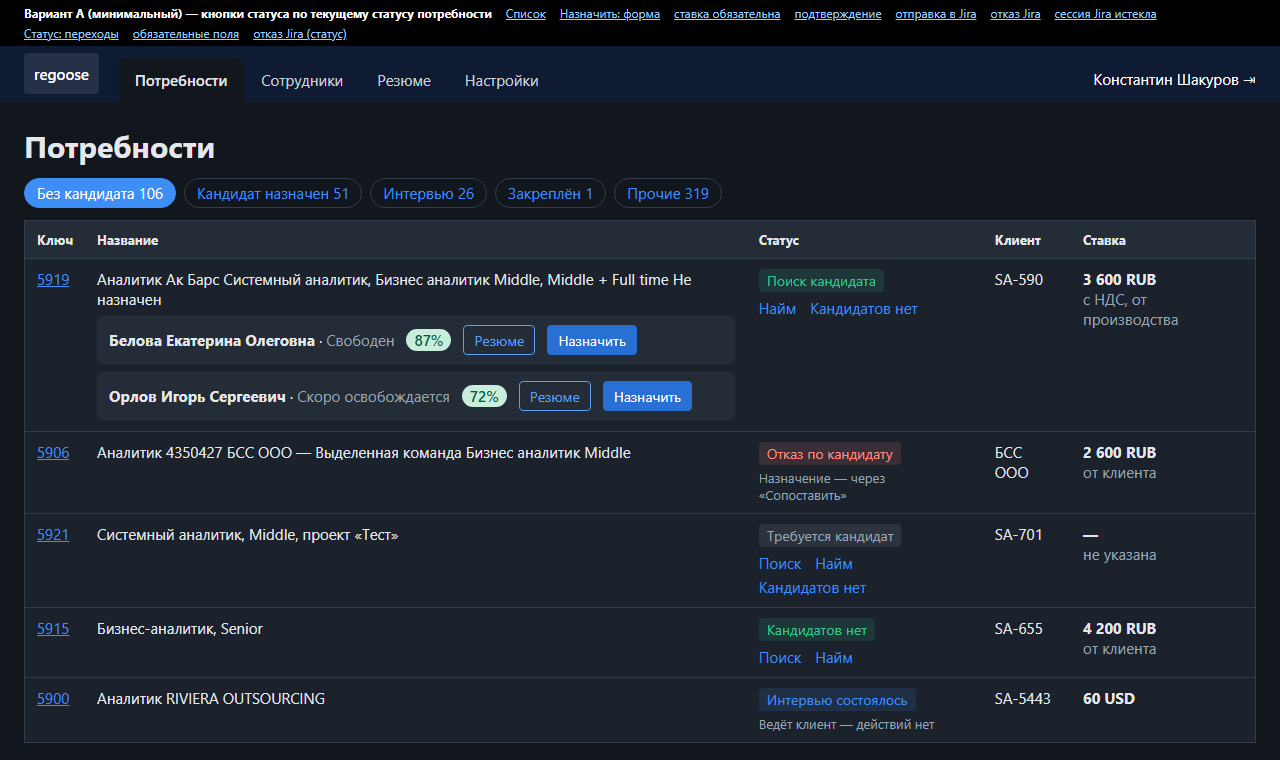
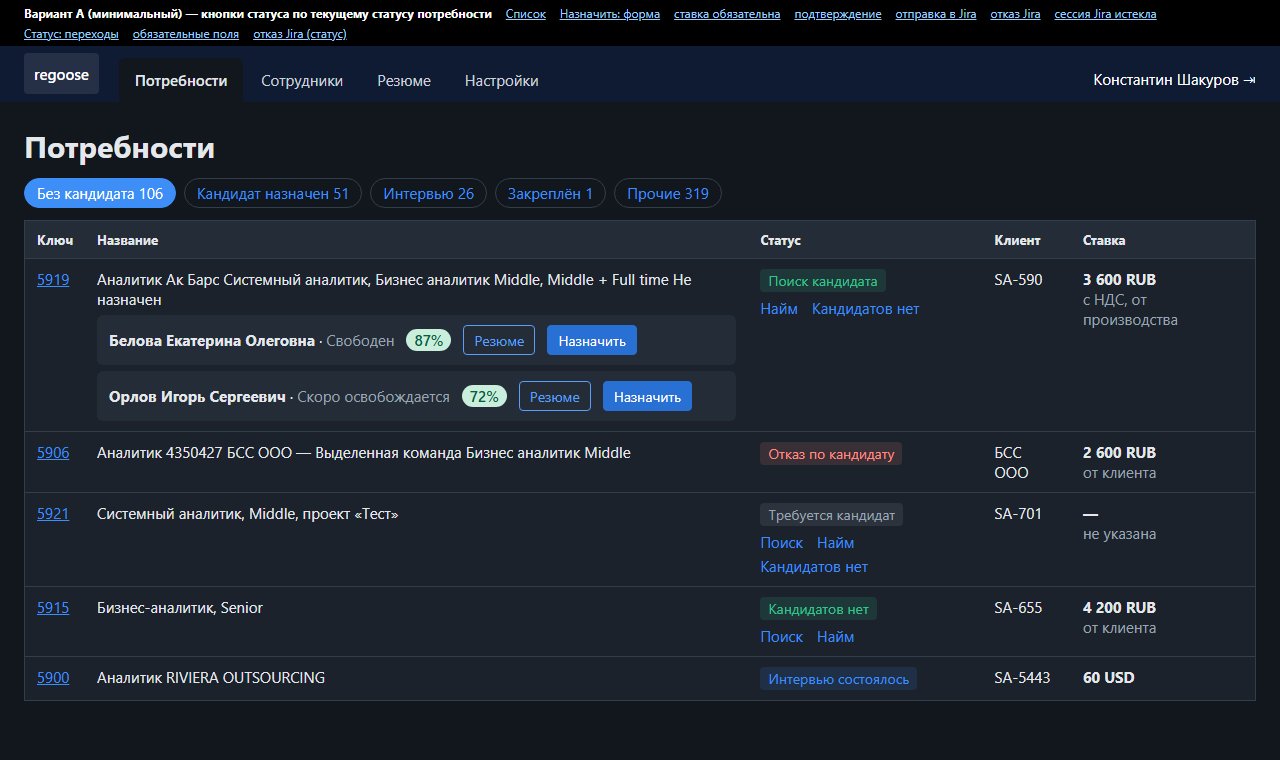
design: KON-79 no explanatory text under statuses without actions

diff --git a/design/KON-79/variant_a.html b/design/KON-79/variant_a.html
@@ -86,8 +86,8 @@ body[data-s="status_refused"] [data-v="status_refused"]{display:flex}
 <div class="cand"><span><b>Белова Екатерина Олеговна</b> · <span class="muted">Свободен</span></span><span class="pct">87%</span><button class="btn small sec">Резюме</button><button class="btn small primary">Назначить</button></div>
 <div class="cand"><span><b>Орлов Игорь Сергеевич</b> · <span class="muted">Скоро освобождается</span></span><span class="pct">72%</span><button class="btn small sec">Резюме</button><button class="btn small primary">Назначить</button></div></td>
 <td><span class="st">Поиск кандидата</span><div class="acts"><button class="lnk">Найм</button><button class="lnk">Кандидатов нет</button></div></td><td>SA-590</td><td><b>3 600 RUB</b><div class="muted">с НДС, от производства</div></td></tr>
-<tr><td><a href="#">5906</a></td><td>Аналитик 4350427 БСС ООО — Выделенная команда Бизнес аналитик Middle</td><td><span class="st" style="background:#ff8a8022;color:var(--err)">Отказ по кандидату</span><div class="hint" style="margin-top:4px">Назначение — через «Сопоставить»</div></td><td>БСС ООО</td><td><b>2 600 RUB</b><div class="muted">от клиента</div></td></tr>
-<tr><td><a href="#">5921</a></td><td>Системный аналитик, Middle, проект «Тест»</td><td><span class="st" style="background:#9aa5b122;color:var(--muted)">Требуется кандидат</span><div class="acts"><button class="lnk">Поиск</button><button class="lnk">Найм</button><button class="lnk">Кандидатов нет</button></div></td><td>SA-701</td><td><b>—</b><div class="muted">не указана</div></td></tr><tr><td><a href="#">5915</a></td><td>Бизнес-аналитик, Senior</td><td><span class="st">Кандидатов нет</span><div class="acts"><button class="lnk">Поиск</button><button class="lnk">Найм</button></div></td><td>SA-655</td><td><b>4 200 RUB</b><div class="muted">от клиента</div></td></tr><tr><td><a href="#">5900</a></td><td>Аналитик RIVIERA OUTSOURCING</td><td><span class="st" style="background:#3e8ef722;color:var(--accent)">Интервью состоялось</span><div class="hint" style="margin-top:4px">Ведёт клиент — действий нет</div></td><td>SA-5443</td><td><b>60 USD</b></td></tr></tbody></table></main>
+<tr><td><a href="#">5906</a></td><td>Аналитик 4350427 БСС ООО — Выделенная команда Бизнес аналитик Middle</td><td><span class="st" style="background:#ff8a8022;color:var(--err)">Отказ по кандидату</span></td><td>БСС ООО</td><td><b>2 600 RUB</b><div class="muted">от клиента</div></td></tr>
+<tr><td><a href="#">5921</a></td><td>Системный аналитик, Middle, проект «Тест»</td><td><span class="st" style="background:#9aa5b122;color:var(--muted)">Требуется кандидат</span><div class="acts"><button class="lnk">Поиск</button><button class="lnk">Найм</button><button class="lnk">Кандидатов нет</button></div></td><td>SA-701</td><td><b>—</b><div class="muted">не указана</div></td></tr><tr><td><a href="#">5915</a></td><td>Бизнес-аналитик, Senior</td><td><span class="st">Кандидатов нет</span><div class="acts"><button class="lnk">Поиск</button><button class="lnk">Найм</button></div></td><td>SA-655</td><td><b>4 200 RUB</b><div class="muted">от клиента</div></td></tr><tr><td><a href="#">5900</a></td><td>Аналитик RIVIERA OUTSOURCING</td><td><span class="st" style="background:#3e8ef722;color:var(--accent)">Интервью состоялось</span></td><td>SA-5443</td><td><b>60 USD</b></td></tr></tbody></table></main>
 <div class="backdrop" data-v="assign"><div class="modal" role="dialog" aria-label="Назначить кандидата"><div class="m-head"><h2>Назначить кандидата</h2><span>✕</span></div><div class="m-body"><div class="ctx">Потребность 5919 · SA-590 · Кандидат: <b>Белова Екатерина Олеговна</b></div>
 <div class="field"><label>Резюме</label><select><option>Основное CV — Белова_ЕО_CV_2026.docx (10.10.2026)</option><option>Доп. CV — Belova_eng.pdf</option><option>CV по шаблону клиента — Ак Барс</option></select></div>
 <div class="field"><label>Ставка, руб. с НДС </label><input type="text" value="3 800" placeholder="например, 3 800">

diff --git a/design/KON-79/status_actions.md b/design/KON-79/status_actions.md
@@ -7,7 +7,7 @@
 1. целевой статус входит в **белый список действий РН/РО/Presale**: «Поиск кандидата», «Кандидат назначен», «Найм», «Кандидатов нет»;
 2. Jira отдала этот переход для текущего статуса потребности (`GET /transitions`, FR-026) — права и workflow определяет Jira.
 
-Остальные переходы (интервью, закреплён, на проекте, отложено, неактуально и др.) ведут клиентская служба и автор потребности; в приложении их нет. Статусы без наших действий (включая «Отказ по кандидату») показывают пометку «Ведёт клиент — действий нет».
+Остальные переходы (интервью, закреплён, на проекте, отложено, неактуально и др.) ведут клиентская служба и автор потребности; в приложении их нет. Для статусов без наших действий (включая «Отказ по кандидату») под чипом ничего не выводится: ни кнопок, ни пояснительного текста.
 
 ## Матрица (исходное состояние → кнопки)
 | Статус потребности | Кнопки в столбце «Статус» | Назначение кандидата |
@@ -18,7 +18,7 @@
 | Найм | **Поиск**, **Кандидатов нет** | по запросу Jira |
 | Кандидат назначен | **Поиск**, **Найм**, **Кандидатов нет** | повторное «Назначить» заменяет назначение (FR-010) |
 | Отказ по кандидату | нет кнопок статуса | «Назначить» у кандидата из «Сопоставить» → Jira переводит в «Кандидат назначен» |
-| Прочие (Интервью…, Закреплён, На проекте, Отложено, Неактуально, …) | нет | нет |
+| Прочие (Интервью…, Закреплён, На проекте, Отложено, Неактуально, …) | нет, текста нет | нет |
 
 Подписи кнопок — как целевые статусы Jira, кроме «Поиск» (переход в «Поиск кандидата»). Матрица — стартовая; окончательный состав берётся из ответа Jira (п. 2 правила), поэтому расхождения диаграммы и реальных переходов не ломают UI.
 
